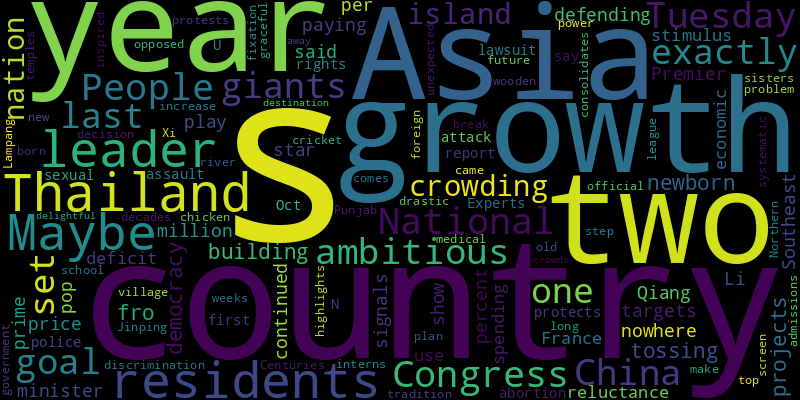
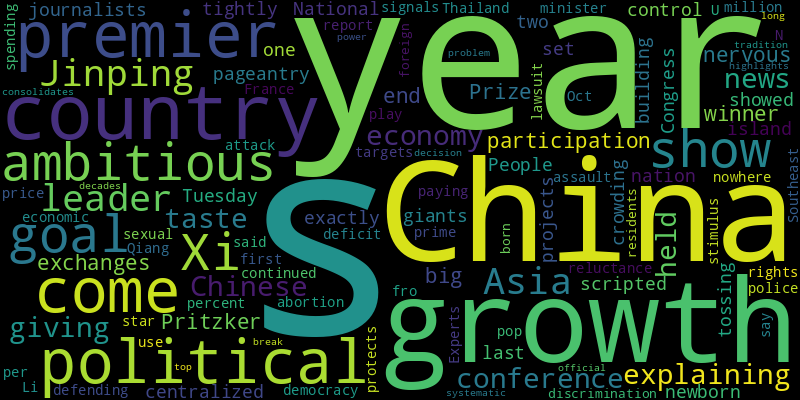
chore(bot): 🙏 auto commit

diff --git a/README.md b/README.md
@@ -2,32 +2,35 @@
 Auto RSS New York Times and Generate Word Cloud
 
 ## New York Times Global News
-* In her most forceful comments to date, the vice president called on Hamas to agree to a six-week pause currently on the table, and Israel to increase the flow of aid into Gaza “given the immense scale of suffering.”
+* A U.N. inquiry found support for Israel’s allegations of sexual violence in the Hamas-led Oct. 7 attack, but they remain bitterly at odds over the war in the Gaza Strip.
+* Moscow’s recent gains in the east have been aided by more aggressive air support on the front lines. But that also has helped Ukraine shoot down enemy planes in the past two weeks.
+* In a country where the health struggles of even public figures are generally viewed as out of bounds, journalists are trying to balance the right to privacy with a thirst for royal stories.
+* Clamor for the precious metal is growing as the buying power of the country’s currency plunges in value against the dollar, and inflation eats away at savings.
+* With Ramadan approaching and the war nearing the five-month mark, indirect talks mediated by Egypt and Qatar have not yielded a deal.
+* The decision to hold a vote on July 28 is a partial fulfillment of a commitment to the United States, but with the top opposition figure barred, many wondered how free and fair the balloting would be.
+* At China’s big political show, nervous exchanges with journalists and the tightly scripted pageantry showed how Xi Jinping has centralized control.
+* Asia’s two giants are crowding the island nation with building projects, tossing its newborn democracy to and fro.
+* The electoral tribunal disqualified Ricardo Martinelli, saying he was ineligible to run because of his conviction for money laundering and sentencing to more than five years in prison.
 * Israel’s Haredi minority has long lived apart from the nation’s mainstream, but fighting has both widened that divide and in some ways helped to bridge it.
-* Maybe, just maybe, that was their future on the screen. How a new cricket league inspired two sisters in a Punjab village.
-* Legislators passed an amendment giving women the “guaranteed freedom” to end their pregnancies, which experts called a global first.
-* First President Emmanuel Macron of France, then Chancellor Olaf Scholz, exposed divisions among Western countries trying to avoid direct hostilities with Russia.
-* The drastic step came after weeks of protests from interns and residents opposed to a government plan to increase medical school admissions.
-* A government forecast suggests that there could be even more wildfires this season than during last year’s exceptional fire period.
-* The decision is a break from a decades-long tradition by the country’s No. 2 official and comes as Xi Jinping, the top leader, consolidates his power.
-* The U.S. government brought Mexican coroners to America to learn how to detect fatal overdoses, hoping to show that fentanyl kills in Mexico, too.
-* On Friday, boat companies began operating in Colombia after a five-day pause, allowing migrants to once again make their way through the notorious jungle terrain and continue toward the U.S. border.
 
 ![Global](./global.png)
 ## New York Times United States News
-* The bill was passed by Republicans, and the veto came on the same day that the Supreme Court agreed to weigh in on a similar law in Texas.
-* The potential witness, an assistant district attorney outside Atlanta, suggested in a statement that the judge had heard misleading testimony about the prosecutors’ romance.
-* Representative Adam Schiff has controlled the Senate race in California with robust fund-raising and is trying to elbow out his biggest Democratic threat by helping a perfect Republican foil.
+* Harvard said it has been acting in good faith and submitted nearly 1,500 pages of new material.
+* The school joins Yale, Dartmouth and M.I.T. in backtracking on “test optional” policies adopted during the pandemic.
+* On Tuesday, the historic 13-2 vote by the men’s basketball team to unionize took a significant step toward classifying student-athletes as employees.
 * Illegal crossings have dropped in the last month, but the migrant crisis still defines life on the border, where many are skeptical that Biden or Trump can help.
-* The parents of a teenager who killed four students at a Michigan high school were charged with involuntary manslaughter. His mother was convicted last month. Now the father will stand trial.
-* It’s only been three years, but memories of Mr. Trump’s presidency have faded and changed fast.
-* What to watch for on Super Tuesday: A slate of elections has loomed large for Nikki Haley, with the biggest troves of delegates — in California and Texas — almost certain to go to Donald Trump.
-* The former president again bested Nikki Haley, a day after her first victory of the Republican primary season.
-* Several states are hosting consequential primary contests.
-* Democrats rejected almost all of House Republicans’ marquee policy demands. But G.O.P. negotiators forced some spending cuts, including to the E.P.A. and the F.B.I.
+* Gov. Jeff Landry is enacting stringent new measures that he says are crucial to address crime; critics say the laws resemble failed policies of the past.
+* Fritch has endured tornadoes and wildfires over the years, and a fire now burning through the Panhandle struck dozens of homes. On Tuesday, the fire chief died fighting a house fire.
+* Mr. Robinson formally entered politics in 2019, when he began his run for lieutenant governor. He has since earned a reputation as a fiery outsider eager to dive into the culture war.
+* The speech, which will be edited up until the president delivers it, will be watched by one of his biggest audiences before the November election.
+* The presidential candidates weren’t the only ones on the ballot.
+* Donald Trump racked up delegates, but also revealed weaknesses. Nikki Haley reckoned with cold, hard math. And restive Democrats sent a message to President Biden.
 
 ![US](./usnews.png)
 ## New York Times Asia News
+* Once a year, the premier held a news conference, explaining the economy and giving Chinese a taste of political participation. That has come to an end.
+* Also, China’s ambitious growth goal and this year’s winner of the Pritzker Prize.
+* At China’s big political show, nervous exchanges with journalists and the tightly scripted pageantry showed how Xi Jinping has centralized control.
 * At the National People’s Congress on Tuesday, China’s leaders set an ambitious goal for growth, exactly the same one as last year.
 * Asia’s two giants are crowding the island nation with building projects, tossing its newborn democracy to and fro.
 * The country is defending paying the pop star to play nowhere else in Southeast Asia. Thailand’s prime minister said the price was up to $3 million per show.
@@ -35,8 +38,5 @@ Auto RSS New York Times and Generate Word Cloud
 * Also, France protects abortion rights and a U.N. report on sexual assault during the Oct. 7 attack.
 * Experts say the country’s first lawsuit about police discrimination against foreign-born residents highlights a systematic problem.
 * The decision is a break from a decades-long tradition by the country’s No. 2 official and comes as Xi Jinping, the top leader, consolidates his power.
-* The drastic step came after weeks of protests from interns and residents opposed to a government plan to increase medical school admissions.
-* Maybe, just maybe, that was their future on the screen. How a new cricket league inspired two sisters in a Punjab village.
-* Centuries-old wooden temples, a graceful river and an unexpected chicken fixation make Lampang, in Northern Thailand, a delightful destination away from the crowds.
 
 ![Asian](./asian.png)
